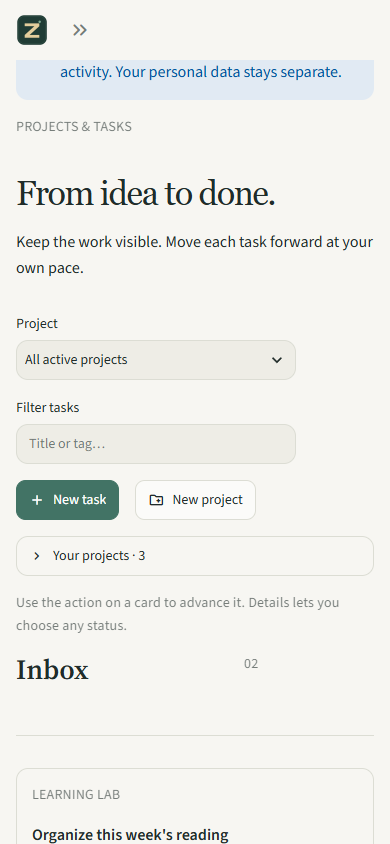
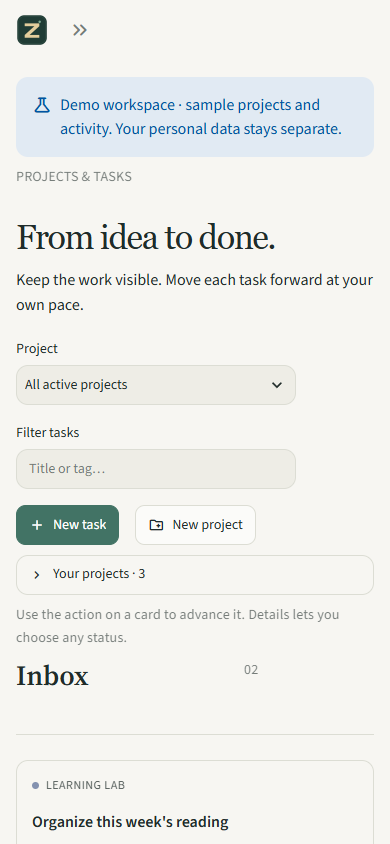
Finalize desktop release and verify mobile, search and recovery flows

diff --git a/assets/style.css b/assets/style.css
@@ -8,6 +8,8 @@ h2,h3 {letter-spacing:-.02em;}
 .brand span:not(.brand-mark) {display:block;font-size:8px;letter-spacing:.17em;font-weight:500;margin-top:4px;}
 .brand-mark {display:grid;place-items:center;width:38px;height:42px;background:#203c35;color:#e4c993;border-radius:11px;font-family:Georgia,serif;font-size:27px;letter-spacing:0;box-shadow:0 6px 14px #18382e18;}
 .st-key-hero {padding:1.4rem!important;background:linear-gradient(120deg,#42736510,transparent)!important;}
+.project-chip {display:flex;align-items:center;gap:7px;font-size:.75rem;letter-spacing:.04em;opacity:.8;margin-bottom:4px;}
+.project-chip span {width:7px;height:7px;border-radius:50%;flex-shrink:0;}
 [data-testid="stMetric"] {padding:1rem 1.15rem!important;}
 [data-testid="stMetricValue"] {font-family:Georgia,serif;}
 [data-testid="stBaseButton-primary"] {background-color:var(--focus-accent)!important;border-color:var(--focus-accent)!important;color:white!important;}
@@ -19,4 +21,4 @@ h2,h3 {letter-spacing:-.02em;}
 .timer-number span {opacity:.4;padding:0 .03em;}
 [data-testid="stCaptionContainer"] {letter-spacing:.015em;}
 @media (prefers-reduced-motion:reduce){*,*::before,*::after{animation:none!important;transition:none!important;}}
-@media(max-width:740px){.stMainBlockContainer{padding:1.25rem 1rem 2.5rem;}.st-key-hero{padding:.8rem!important;}h1{font-size:2.1rem!important;}.st-key-timer_room{padding:1.2rem!important;}}
+@media(max-width:740px){.stMainBlockContainer{padding:4.8rem 1rem 2.5rem!important;}.st-key-hero{padding:.8rem!important;}h1{font-size:2.1rem!important;}.st-key-timer_room{padding:1.2rem!important;}}

diff --git a/tests/test_app.py b/tests/test_app.py
@@ -71,6 +71,25 @@ class AppWorkflowTests(unittest.TestCase):
         from focus.store import Store
         self.assertEqual(Store().settings()["accent"], "Violet")
 
+    def test_task_details_checklist_and_recovery(self):
+        from focus.store import Store
+        db = Store()
+        task = db.save_task("Ship an accessible app", status="Doing")
+        self.at.run()
+        self.button("Details").click().run()
+        self.assertFalse(self.at.exception)
+        next(t for t in self.at.text_input if t.label == "Add a checklist item").set_value("Check tab order")
+        self.button("Add item").click().run()
+        self.assertFalse(self.at.exception)
+        next(c for c in self.at.checkbox if c.label == "Check tab order").check().run()
+        self.assertFalse(self.at.exception)
+        self.assertEqual(db.checklist(task)[0]["done"], 1)
+        self.button("Move task to trash").click().run()
+        self.at.switch_page("app_pages/settings.py").run()
+        self.button("Restore").click().run()
+        self.assertFalse(self.at.exception)
+        self.assertIsNone(db.get("tasks", task)["deleted_at"])
+
 
 if __name__ == "__main__":
     unittest.main()

diff --git a/package_release.py b/package_release.py
@@ -1,0 +1,25 @@
+"""Package only tracked source files; no workspace data, logs, or build folders."""
+import hashlib
+import shutil
+import subprocess
+import zipfile
+from pathlib import Path
+
+root = Path(__file__).resolve().parent
+release = root / "release"
+release.mkdir(exist_ok=True)
+exe_name = "Zoderise-Focus-1.0.0-Windows-x64.exe"
+shutil.copy2(root / "dist" / exe_name, release / exe_name)
+files = subprocess.check_output(["git", "ls-files", "-z"], cwd=root).decode().split("\0")
+source = release / "Zoderise-Focus-1.0.0-Source.zip"
+with zipfile.ZipFile(source, "w", zipfile.ZIP_DEFLATED) as z:
+    for name in sorted(filter(None, files)):
+        path = root / name
+        if path.is_file():
+            z.write(path, "zoderise-focus/" + name)
+checksums = []
+for path in (release / exe_name, source):
+    digest = hashlib.sha256(path.read_bytes()).hexdigest()
+    checksums.append(f"{digest}  {path.name}")
+    print(f"{path.name}: {path.stat().st_size:,} bytes · SHA256 {digest}")
+(release / "SHA256SUMS.txt").write_text("\n".join(checksums) + "\n")

diff --git a/app.py b/app.py
@@ -11,7 +11,8 @@ st.logo(str(Path(__file__).parent / "assets" / "wordmark.svg"), size="large",
         icon_image=str(Path(__file__).parent / "assets" / "icon.png"))
 with st.sidebar:
     st.caption("Space for your best work.")
-    st.button("Quick find & create", icon=":material/search:", width="stretch", on_click=quick_find, shortcut="Ctrl+K")
+    st.button("Quick find & create", icon=":material/search:", width="stretch", on_click=quick_find, shortcut="Ctrl+K",
+              disabled=bool(st.session_state.get("open_task") or st.session_state.get("open_project")))
     st.divider()
 
 page = st.navigation({"WORKSPACE": [

diff --git a/focus/ui.py b/focus/ui.py
@@ -155,7 +155,8 @@ def task_card(task, actions=True, key_prefix=""):
     db = store()
     with st.container(border=True, key=key_prefix + "card_" + task["id"]):
         project = task.get("project_name") or "INBOX"
-        st.caption(project.upper())
+        color = task.get("project_color") or "#879b8e"
+        st.html(f'<div class="project-chip"><span style="background:{color}"></span>{html.escape(project.upper())}</div>')
         st.markdown(f"**{html.escape(task['title'])}**")
         bits = [task["priority"] + " priority", f"{task['estimate_minutes']} min"]
         if task["due_date"]:

diff --git a/app_pages/notes.py b/app_pages/notes.py
@@ -49,7 +49,7 @@ with right:
         if note:
             st.subheader(note["title"])
             # Raw HTML is not executed; remote images are not fetched into the preview.
-            preview = __import__("re").sub(r"!\[([^\]]*)\]\([^)]*\)", r"[Image: \1 — open separately]", note["body"])
+            preview = __import__("re").sub(r"!\[([^\]]*)\](?:\([^)]*\))?", r"[Image: \1 — omitted]", note["body"])
             st.markdown(preview)
         else:
             st.info("Save your note to see its Markdown preview.")

diff --git a/tools/test_desktop.py b/tools/test_desktop.py
@@ -54,6 +54,7 @@ for round_number in (1, 2):
         else:
             raise RuntimeError("No Zoderise Focus native window appeared")
         time.sleep(4)
+        observed.update(p.pid for p in psutil.Process(process.pid).children(recursive=True))
         user32.PostMessageW(ctypes.c_void_p(windows[0]), 0x0010, 0, 0)  # Close only our app's window.
         process.wait(timeout=20)
         time.sleep(3)

diff --git a/README.md b/README.md
@@ -52,7 +52,7 @@ On macOS/Linux, activate with `source .venv/bin/activate`. Open **http://127.0.0
 
 ## Windows desktop
 
-The intended portable release is `Zoderise-Focus-1.0.0-Windows-x64.exe`. When it is available under [Releases](https://github.com/Zubair-zahidi/zoderise-focus/releases), download and double-click it. It bundles Python and the application dependencies, so end users do not need Python, Node.js, npm, or Ollama.
+Download [Zoderise Focus for Windows x64](https://github.com/Zubair-zahidi/zoderise-focus/releases/download/v1.0.0/Zoderise-Focus-1.0.0-Windows-x64.exe) and double-click it. It bundles Python and the application dependencies, so end users do not need Python, Node.js, npm, or Ollama. The [release page](https://github.com/Zubair-zahidi/zoderise-focus/releases/tag/v1.0.0) also includes the source ZIP and checksums.
 
 The desktop uses **Microsoft Edge WebView2 Runtime**, commonly present on Windows 10/11. The executable is unsigned; Windows may show an unknown-publisher warning. Check the release checksums and use the original release. Source and desktop versions use the same local data directory. See [desktop build instructions](docs/DESKTOP.md) for prerequisites and packaging.
 
@@ -73,7 +73,7 @@ Local databases, backup archives, and exports are **not encrypted**. Use device 
 python -m unittest discover -s tests -v
 ```
 
-The suite covers task capture, note saving, preferences, all seven pages, timer start/pause/finish, demo isolation, recurring-task idempotency, task recovery, timer persistence, exports, and backup validation/restoration. Visual checks use a fresh browser against an isolated local workspace; capture scripts are in `tools/` and require Node.js, Playwright, and a local Edge installation. These tools are for maintainers, not app users.
+The 12-test suite covers task capture, note saving, preferences, all seven pages, timer start/pause/finish, demo isolation, recurring-task idempotency, checklist editing and task recovery, timer persistence, exports, and backup validation/restoration. CI runs on Windows and Linux with Python 3.12 and 3.14. Visual checks use a fresh browser against an isolated local workspace; capture scripts are in `tools/` and require Node.js, Playwright, and a local Edge installation. These tools are for maintainers, not app users.
 
 ## Screenshots
 

diff --git a/RELEASE_NOTES.md b/RELEASE_NOTES.md
@@ -1,0 +1,27 @@
+# Zoderise Focus 1.0.0
+
+A personal productivity workspace from **Zubair Zahidi, founder of Zoderise**. Organize projects, capture ideas, and record focused sessions without an account, AI model, or cloud service.
+
+## Included
+
+- Projects and a four-state Kanban board, priorities, deadlines, estimates, checklists, tags, and daily/weekly recurring tasks.
+- Searchable project-linked Markdown notes and saved-content preview.
+- Focus timer with pause/resume, persistent session state, daily goals, break countdowns, and recorded activity review.
+- Quick find with Ctrl+K, agenda views, a weekly reflection, and review download.
+- Four accent palettes, compact spacing, reduced motion, and native light/dark appearance.
+- Local SQLite storage, JSON/CSV/Markdown/calendar exports, verified ZIP backups, validated restore with a safety copy, and reversible trash/archive.
+- Separate labelled sample workspace, real screenshots, animated demo, user guide, architecture notes, source tests, and CI.
+
+## Downloads
+
+**Windows x64:** `Zoderise-Focus-1.0.0-Windows-x64.exe`. Double-click to open the native app. No Python, npm, Node.js, or Ollama is required. Microsoft Edge WebView2 Runtime must be present. The app is unsigned.
+
+**Developers:** `Zoderise-Focus-1.0.0-Source.zip` includes source, tests, documentation, screenshots, and the animated walkthrough. Follow the README to run the browser app.
+
+Use `SHA256SUMS.txt` to check release files. Windows PowerShell: `Get-FileHash .\Zoderise-Focus-1.0.0-Windows-x64.exe -Algorithm SHA256`.
+
+## Verified behavior and limits
+
+Automated tests cover CRUD workflows, checklist recovery, recurring-task idempotency, focus persistence, export safety, and backup restoration. The actual frozen app is checked in a fresh browser on desktop and at a 390px width. The native window is tested across two open/close cycles and checked for server cleanup.
+
+This is a single-person local workspace. It has no cloud sync, team accounts, drag-and-drop board, OS reminders, or automatic integrations. Timer totals represent recorded timer work, not verified attention or productivity. Local data and exports are unencrypted. Keep backups somewhere you trust.

diff --git a/docs/VERIFICATION.md b/docs/VERIFICATION.md
@@ -1,0 +1,18 @@
+# Release verification · 1.0.0
+
+Checked on 14 October 2026.
+
+| Check | Evidence |
+| --- | --- |
+| Local behavior | 12 passing unit/workflow tests; isolated temporary workspaces |
+| Source portability | GitHub Actions matrix: Windows/Linux, Python 3.12/3.14; see the repository's current workflow run |
+| Frozen frontend | Fresh Edge browser connected to the packaged executable's loopback server; page checks, task-linked focus start/pause, and note preview |
+| Quick find | Native Ctrl+K opens search; submitted search returns the expected sample task |
+| Mobile layout | 390px viewport with document width 390px; no horizontal overflow in the board |
+| Native window | Final executable opened and closed twice; zero leftover processes observed in the app process tree |
+| Media | Real app screenshots of the labelled sample workspace; GIF assembled from those screenshots |
+| Data isolation | Empty personal workspace and separate demo workspace checked; backups pause active timer snapshots |
+
+These checks establish the tested flows, not a guarantee that every possible environment or input is covered. The Windows launcher requires WebView2 and is unsigned. The desktop data path is outside the executable and its extraction directory. No actual user database, private notes, or credentials are included in the release.
+
+Run `python -m unittest discover -s tests -v` to repeat behavior checks. `tools/verify_visual.py` and `tools/test_desktop.py` document the packaged-app checks. `docs/media/visual-check.json` records the visual capture result.
